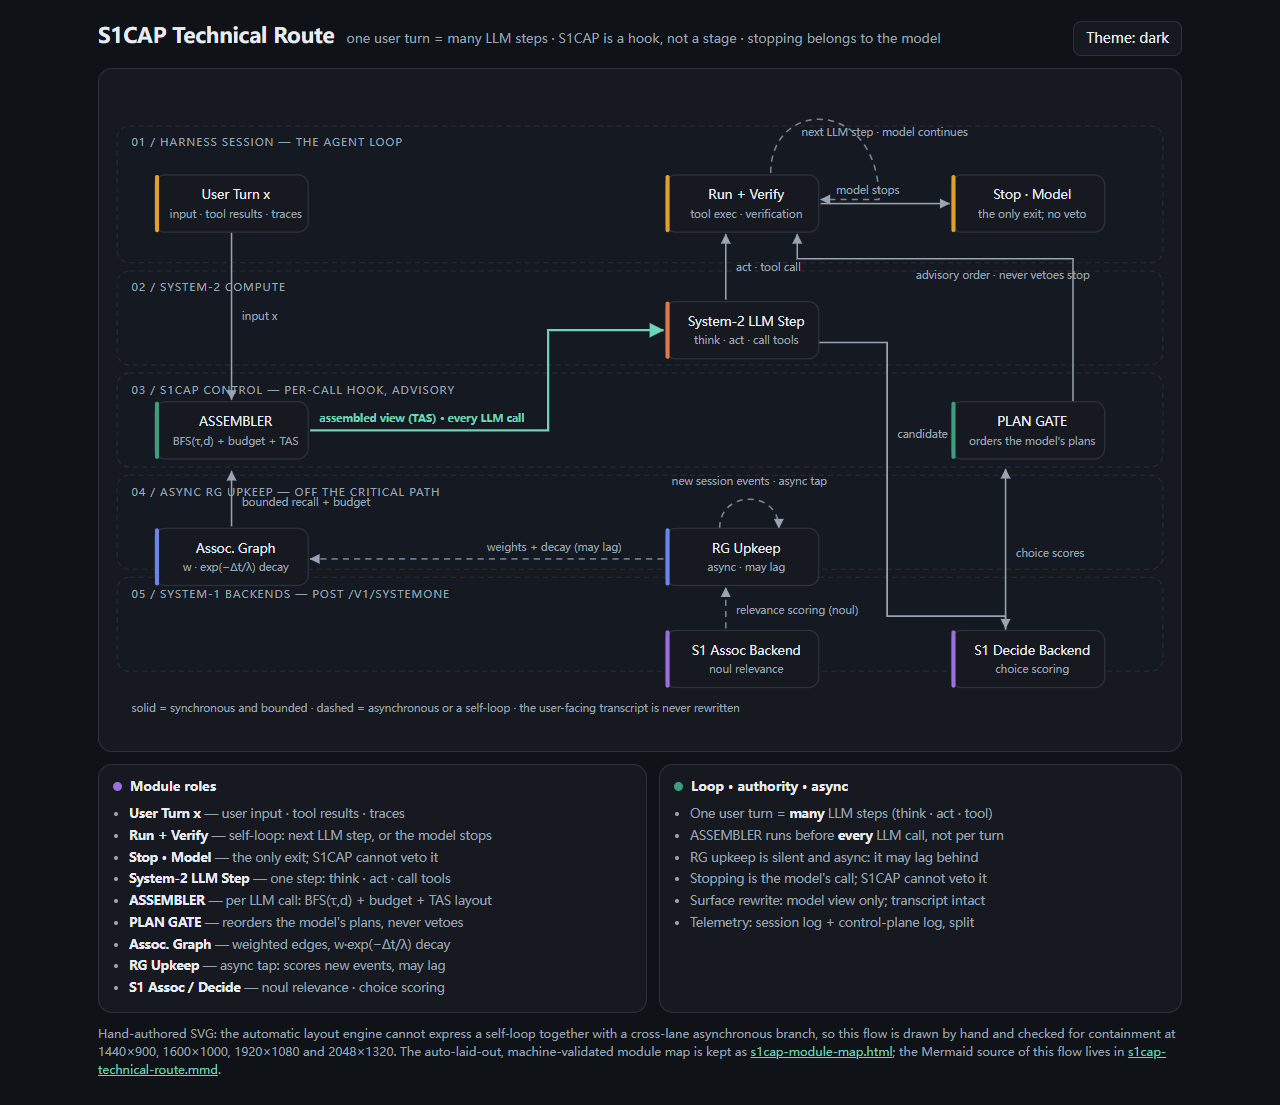
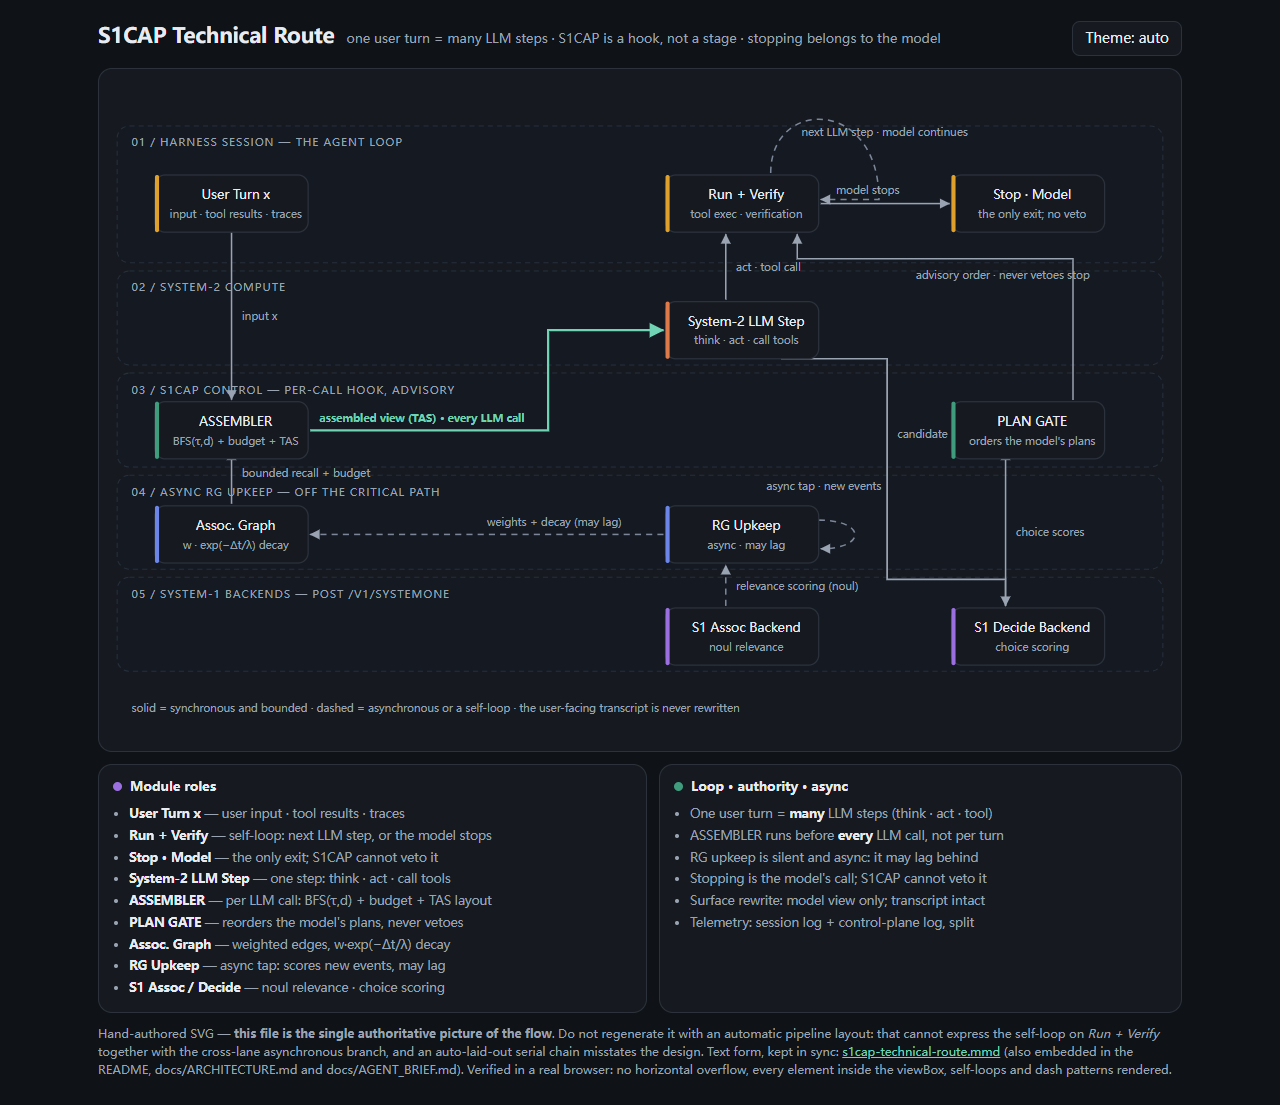
fix(figures): put lane-04/05 nodes back inside their lanes; add a diagram guard
Reported: RG Upkeep, Assoc. Graph, S1 Assoc Backend and S1 Decide Backend rendered outside the lane
they belong to.

Cause: the bands were laid out at y = 46/188/288/388/488 (92-134 tall) but the bottom two lanes kept
their node Y positions from an earlier revision, so those four nodes sat 22px lower than the other
lanes' nodes and their bottom edge crossed the band boundary (e.g. lane 04 spans 388..480 while the
node occupied 440..496). Lanes 02 and 03 were fine (28-30px top gap); lanes 04 and 05 were at 52px.

Fix: node top = band top + 30 in every lane (lane 04 nodes at y=418, lane 05 at y=518), with every
touching edge endpoint, label and the async-tap self-loop moved with them; the self-loop now sits on
RG Upkeep's right edge so it stays inside the band.

Guard so it cannot regress silently: scripts/check-diagram.mjs parses the SVG and asserts that every
node box lies fully inside the lane band containing its centre, stays inside the band's horizontal
extent, and that no two node boxes overlap. Verified both ways - it exits 1 with a precise message on
a deliberate 50px shift ('Assoc. Graph leaves lane 05: node 468..524 vs lane 488..580') and 0 on the
fixed file. README development commands updated (and the stale test count corrected to 51).

Also verified in the browser: 10 nodes inside 5 lanes, no overlaps, no horizontal overflow, light and
dark screenshots refreshed.

diff --git a/docs/figures/s1cap-technical-route.html b/docs/figures/s1cap-technical-route.html
@@ -111,25 +111,25 @@
       <path class="edge" d="M 697 122 L 823 122" marker-end="url(#arrow)"/>
       <text class="edge-label" x="712" y="113">model stops</text>
 
-      <path class="edge" d="M 120 438 L 120 384" marker-end="url(#arrow)"/>
-      <text class="edge-label" x="130" y="418">bounded recall + budget</text>
+      <path class="edge" d="M 120 416 L 120 364" marker-end="url(#arrow)"/>
+      <text class="edge-label" x="130" y="390">bounded recall + budget</text>
 
-      <path class="edge dashed" d="M 543 470 L 197 470" marker-end="url(#arrow)"/>
-      <text class="edge-label" x="370" y="462">weights + decay (may lag)</text>
+      <path class="edge dashed" d="M 543 446 L 197 446" marker-end="url(#arrow)"/>
+      <text class="edge-label" x="370" y="438">weights + decay (may lag)</text>
 
-      <path class="edge dashed" d="M 604 538 L 604 498" marker-end="url(#arrow)"/>
-      <text class="edge-label" x="614" y="524">relevance scoring (noul)</text>
+      <path class="edge dashed" d="M 604 516 L 604 476" marker-end="url(#arrow)"/>
+      <text class="edge-label" x="614" y="500">relevance scoring (noul)</text>
 
-      <path class="edge dashed" d="M 598 440 C 598 402, 656 402, 656 440" marker-end="url(#arrow)"/>
-      <text class="edge-label" x="627" y="398" text-anchor="middle">new session events · async tap</text>
+      <path class="edge dashed" d="M 695 432 C 742 432, 742 460, 697 460" marker-end="url(#arrow)"/>
+      <text class="edge-label" x="700" y="402" text-anchor="middle">async tap · new events</text>
 
-      <path class="edge" d="M 658 258 L 762 258 L 762 526 L 878 526 L 878 538" marker-end="url(#arrow)"/>
+      <path class="edge" d="M 658 274 L 762 274 L 762 490 L 878 490 L 878 516" marker-end="url(#arrow)"/>
       <text class="edge-label" x="772" y="352">candidate plans</text>
 
-      <path class="edge" d="M 878 540 L 878 382" marker-end="url(#arrow)"/>
-      <text class="edge-label" x="888" y="468">choice scores</text>
+      <path class="edge" d="M 878 516 L 878 364" marker-end="url(#arrow)"/>
+      <text class="edge-label" x="888" y="448">choice scores</text>
 
-      <path class="edge" d="M 944 316 L 944 176 L 674 176 L 674 152" marker-end="url(#arrow)"/>
+      <path class="edge" d="M 944 314 L 944 176 L 674 176 L 674 152" marker-end="url(#arrow)"/>
       <text class="edge-label" x="790" y="196">advisory order · never vetoes stop</text>
 
       <!-- nodes -->
@@ -151,17 +151,17 @@
       <g class="node c"><rect x="825" y="316" width="150" height="56" rx="10"/><rect class="bar" x="825" y="316" width="4" height="56" rx="2"/>
         <text x="904" y="340">PLAN GATE</text><text class="sub" x="904" y="358">orders the model's plans</text></g>
 
-      <g class="node u"><rect x="45" y="440" width="150" height="56" rx="10"/><rect class="bar" x="45" y="440" width="4" height="56" rx="2"/>
-        <text x="124" y="464">Assoc. Graph</text><text class="sub" x="124" y="482">w · exp(−Δt/λ) decay</text></g>
+      <g class="node u"><rect x="45" y="418" width="150" height="56" rx="10"/><rect class="bar" x="45" y="418" width="4" height="56" rx="2"/>
+        <text x="124" y="442">Assoc. Graph</text><text class="sub" x="124" y="460">w · exp(−Δt/λ) decay</text></g>
 
-      <g class="node u"><rect x="545" y="440" width="150" height="56" rx="10"/><rect class="bar" x="545" y="440" width="4" height="56" rx="2"/>
-        <text x="624" y="464">RG Upkeep</text><text class="sub" x="624" y="482">async · may lag</text></g>
+      <g class="node u"><rect x="545" y="418" width="150" height="56" rx="10"/><rect class="bar" x="545" y="418" width="4" height="56" rx="2"/>
+        <text x="624" y="442">RG Upkeep</text><text class="sub" x="624" y="460">async · may lag</text></g>
 
-      <g class="node s1"><rect x="545" y="540" width="150" height="56" rx="10"/><rect class="bar" x="545" y="540" width="4" height="56" rx="2"/>
-        <text x="624" y="564">S1 Assoc Backend</text><text class="sub" x="624" y="582">noul relevance</text></g>
+      <g class="node s1"><rect x="545" y="518" width="150" height="56" rx="10"/><rect class="bar" x="545" y="518" width="4" height="56" rx="2"/>
+        <text x="624" y="542">S1 Assoc Backend</text><text class="sub" x="624" y="560">noul relevance</text></g>
 
-      <g class="node s1"><rect x="825" y="540" width="150" height="56" rx="10"/><rect class="bar" x="825" y="540" width="4" height="56" rx="2"/>
-        <text x="904" y="564">S1 Decide Backend</text><text class="sub" x="904" y="582">choice scoring</text></g>
+      <g class="node s1"><rect x="825" y="518" width="150" height="56" rx="10"/><rect class="bar" x="825" y="518" width="4" height="56" rx="2"/>
+        <text x="904" y="542">S1 Decide Backend</text><text class="sub" x="904" y="560">choice scoring</text></g>
 
       <text class="note" x="22" y="620">solid = synchronous and bounded · dashed = asynchronous or a self-loop · the user-facing transcript is never rewritten</text>
     </svg>

diff --git a/README.md b/README.md
@@ -98,8 +98,12 @@ Pre-alpha — **M0 scaffolding landed**: monorepo, `@s1cap/core` (segmenter · a
 ## Development
 
 ```bash
-node --test --experimental-strip-types "packages/*/test/*.test.ts"   # 32 tests, zero deps, offline
+node --test --experimental-strip-types "packages/*/test/*.test.ts"   # 51 tests, zero deps, offline
+node scripts/check-diagram.mjs   # every node box inside its lane band, no overlapping nodes
 ```
+
+The second command guards the hand-authored route diagram: it is drawn by hand, so nothing but this
+check stops a node from drifting out of its lane.
 
 Local Laya backend: `@s1cap/laya-runtime` discovers the Python environment that can `import laya`
 (conda environments are resolved through `conda env list --json`, never by guessing paths), launches
